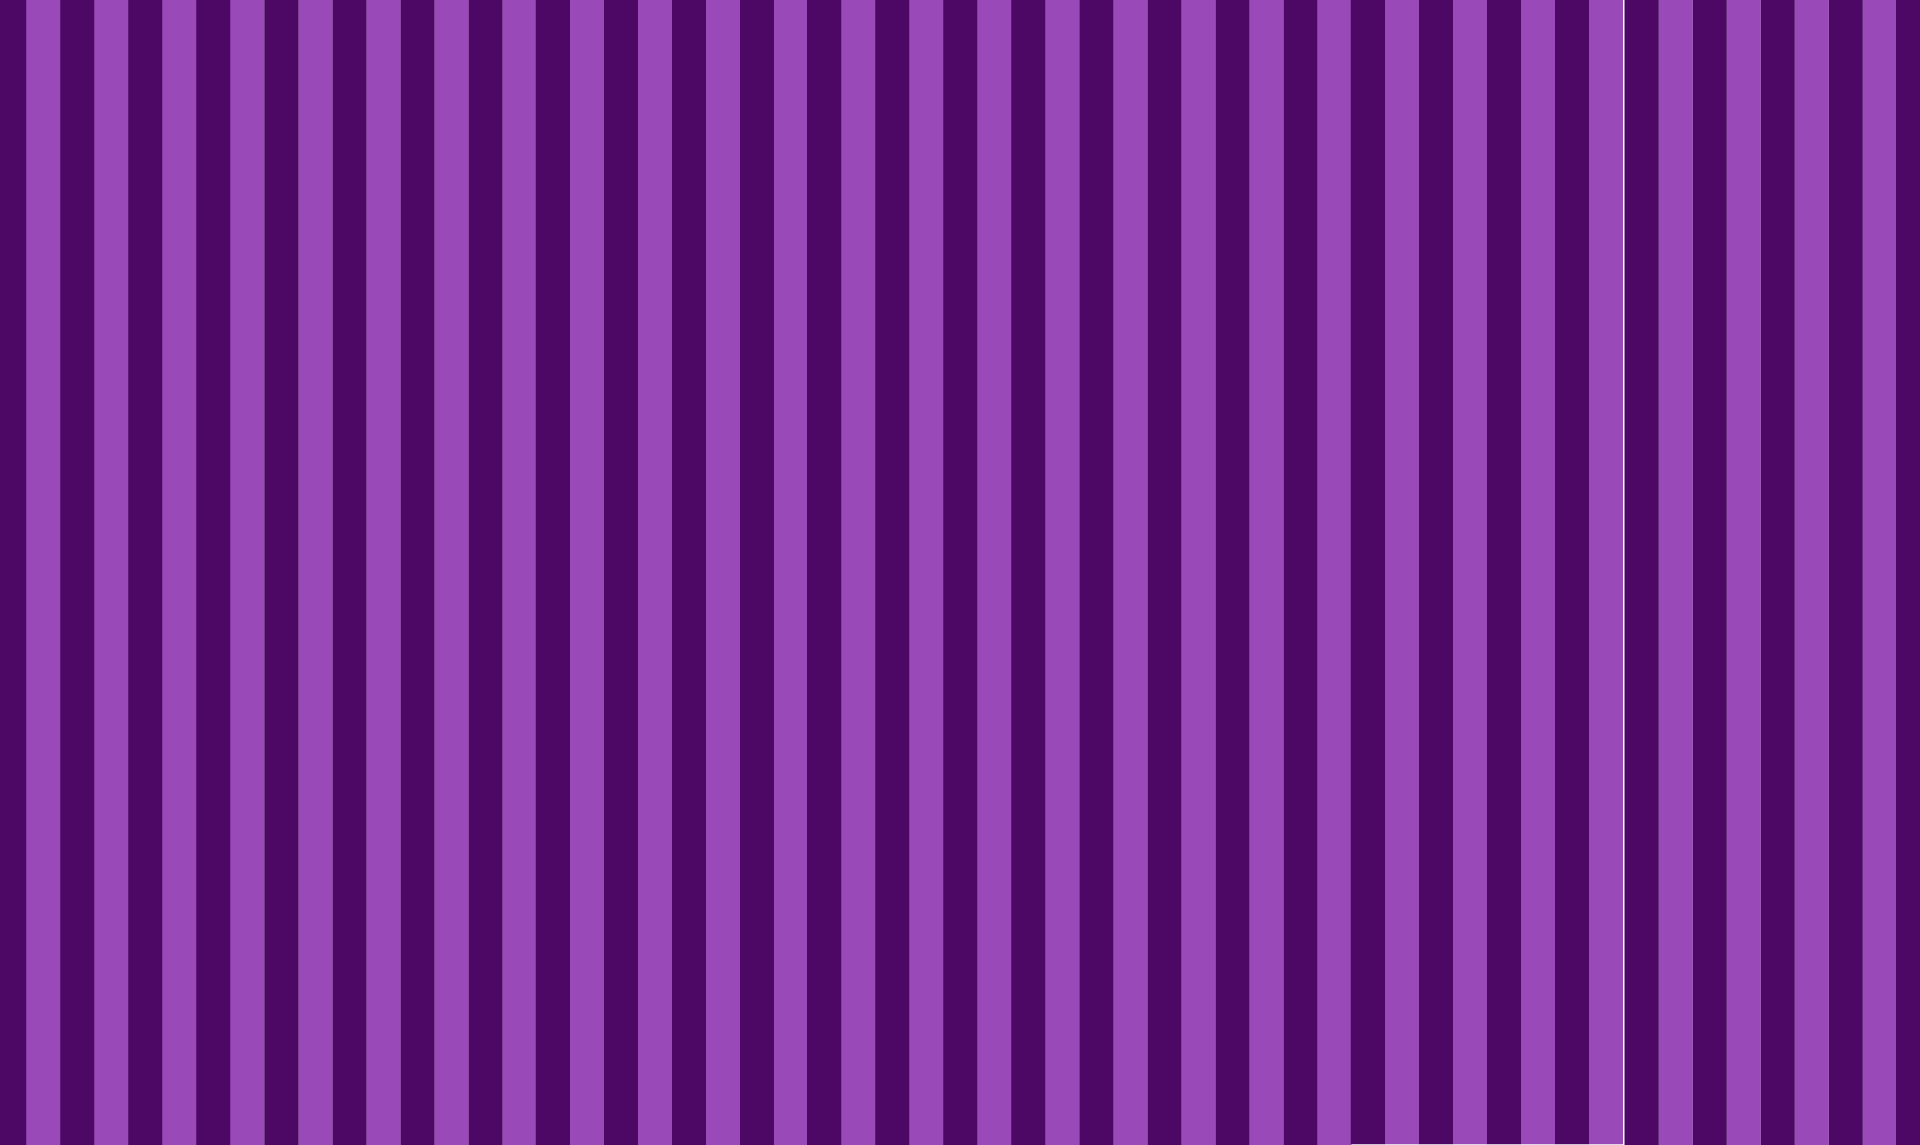
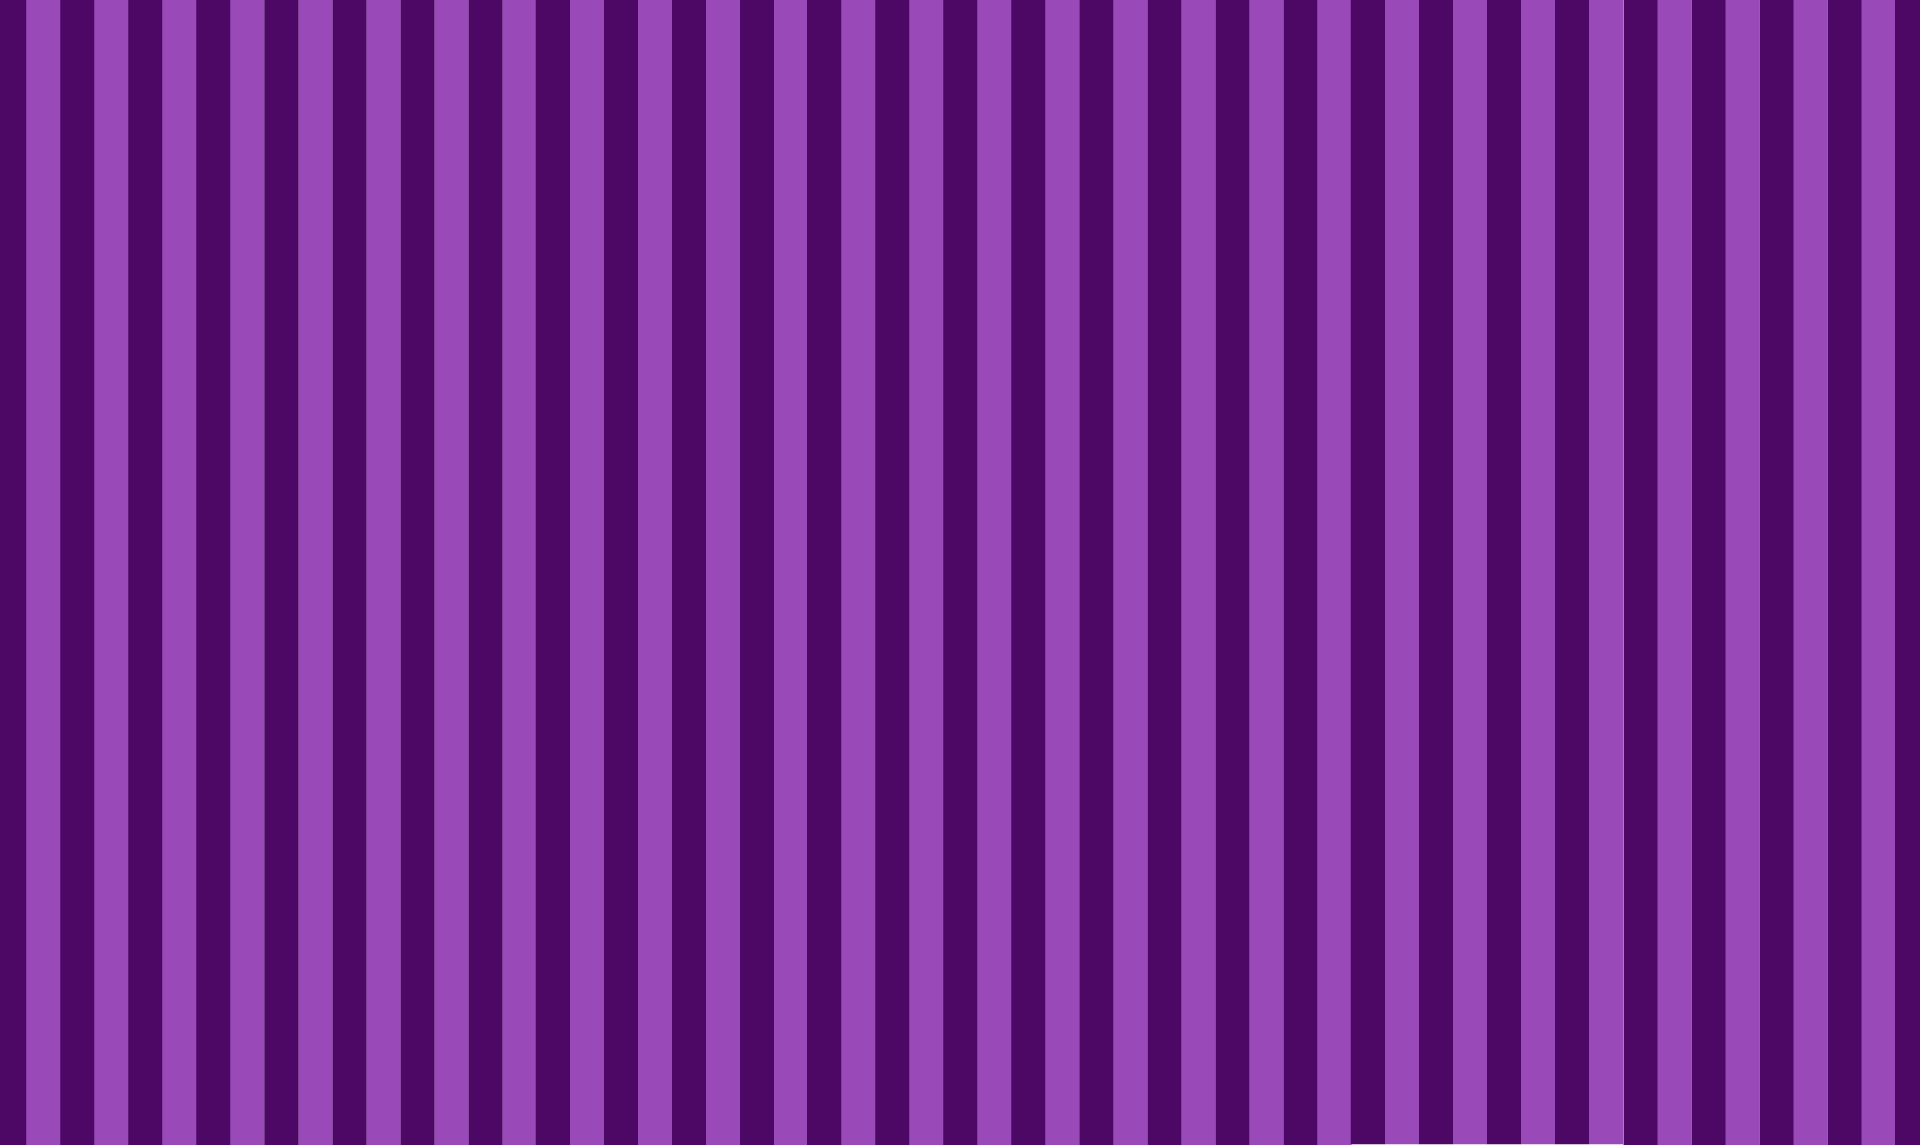
star bursts!

diff --git a/src/App.jsx b/src/App.jsx
@@ -18,6 +18,16 @@ const pageRoutes = {
   'client-work': '/client-work',
 };
 
+const starImages = [
+  '/assets/photos/blackStar.png',
+  '/assets/photos/darkStar.png',
+  '/assets/photos/PastelPurpleStar.png',
+  '/assets/photos/PeachStar.png',
+  '/assets/photos/PinkStar.png',
+  '/assets/photos/PurpleStar.png',
+  '/assets/photos/WhiteStar.png',
+];
+
 function pageFromPath(pathname) {
   const route = Object.entries(pageRoutes).find(([, path]) => path === pathname);
   return route ? route[0] : 'home';
@@ -74,6 +84,75 @@ function NavDropdown({ onSelect, currentPage }) {
             </button>
           ))}
         </div>
+      )}
+    </div>
+  );
+}
+
+function ClickStarBursts() {
+  const [bursts, setBursts] = useState([]);
+  const nextBurstId = useRef(0);
+
+  useEffect(() => {
+    const timers = new Set();
+
+    function handleClick(event) {
+      const id = nextBurstId.current++;
+      const stars = starImages.map((src, index) => {
+        const angle = (index / starImages.length) * Math.PI * 2 + (id % 2) * 0.12;
+        const distance = 78 + ((index + id) % 3) * 16;
+        const size = 30 + ((index + id) % 3) * 6;
+        const duration = 700;
+
+        return {
+          src,
+          x: Math.cos(angle) * distance * 1.25,
+          y: Math.sin(angle) * distance * 0.85,
+          rotation: Math.round((angle * 180) / Math.PI + 260 + ((index + id) % 3) * 100),
+          size,
+          duration,
+          delay: 0,
+        };
+      });
+
+      setBursts((current) => [...current, { id, x: event.clientX, y: event.clientY, stars }]);
+
+      let timerId;
+      timerId = window.setTimeout(() => {
+        setBursts((current) => current.filter((burst) => burst.id !== id));
+        timers.delete(timerId);
+      }, Math.max(...stars.map((star) => star.duration + star.delay)) + 80);
+      timers.add(timerId);
+    }
+
+    document.addEventListener('click', handleClick);
+    return () => {
+      document.removeEventListener('click', handleClick);
+      timers.forEach((timerId) => window.clearTimeout(timerId));
+    };
+  }, []);
+
+  return (
+    <div className="click-star-layer" aria-hidden="true">
+      {bursts.flatMap((burst) =>
+        burst.stars.map((star, index) => (
+          <img
+            key={`${burst.id}-${index}`}
+            className="click-star"
+            src={star.src}
+            alt=""
+            style={{
+              left: `${burst.x}px`,
+              top: `${burst.y}px`,
+              '--burst-x': `${star.x}px`,
+              '--burst-y': `${star.y}px`,
+              '--burst-rotation': `${star.rotation}deg`,
+              '--burst-size': `${star.size}px`,
+              '--burst-duration': `${star.duration}ms`,
+              '--burst-delay': `${star.delay}ms`,
+            }}
+          />
+        )),
       )}
     </div>
   );
@@ -142,6 +221,7 @@ export default function App() {
       ) : (
         <HomePage />
       )}
+      <ClickStarBursts />
     </div>
   );
 }

diff --git a/src/styles.css b/src/styles.css
@@ -38,6 +38,52 @@ button {
   font: inherit;
 }
 
+.click-star-layer {
+  position: fixed;
+  z-index: 1000;
+  inset: 0;
+  overflow: hidden;
+  pointer-events: none;
+}
+
+.click-star {
+  position: absolute;
+  width: var(--burst-size);
+  height: var(--burst-size);
+  max-width: none;
+  object-fit: contain;
+  opacity: 0;
+  animation: click-star-burst var(--burst-duration) ease-out var(--burst-delay) both;
+}
+
+@keyframes click-star-burst {
+  0% {
+    opacity: 0;
+    transform: translate(-50%, -50%) scale(0.15) rotate(0deg);
+  }
+
+  18% {
+    opacity: 1;
+    transform: translate(-50%, -50%) scale(1.15) rotate(20deg);
+  }
+
+  72% {
+    opacity: 1;
+    transform: translate(
+      calc(-50% + var(--burst-x)),
+      calc(-50% + var(--burst-y))
+    ) scale(1) rotate(130deg);
+  }
+
+  100% {
+    opacity: 0;
+    transform: translate(
+      calc(-50% + var(--burst-x)),
+      calc(-50% + var(--burst-y))
+    ) scale(0.8) rotate(var(--burst-rotation));
+  }
+}
+
 .page-shell {
   width: min(1200px, calc(100% - 32px));
   margin: 0 auto;
@@ -523,16 +569,43 @@ button {
 }
 
 .services-grid {
+  position: relative;
+  isolation: isolate;
   display: grid;
-  grid-template-columns: repeat(4, minmax(0, 1fr));
-  gap: 18px;
+  grid-template-columns: repeat(2, minmax(0, 1fr));
+  gap: 0px;
+  padding: 0px;
+}
+
+.services-grid::before {
+  position: absolute;
+  z-index: -1;
+  inset-block: 0;
+  left: 50%;
+  width: 100vw;
+  transform: translateX(-50%);
+  background: url('/assets/photos/darkPurpleStripe.png') center / cover no-repeat;
+  content: '';
 }
 
 .service-card {
-  background: rgba(255, 255, 255, 0.75);
+  grid-column: 1;
+  justify-self: center;
+  align-self: center;
+  width: min(100%, 420px);
+  height: fit-content;
+  background: #ffffff;
   border: 1px solid var(--line);
   border-radius: 22px;
-  padding: 22px 18px;
+  padding: 16px;
+}
+
+.services-photo {
+  width: min(100%, 400px);
+  height: auto;
+  justify-self: center;
+  align-self: center;
+  transform: rotate(10deg);
 }
 
 .icon-circle {
@@ -547,10 +620,30 @@ button {
   margin-bottom: 18px;
 }
 
-.service-card h3 {
-  margin: 0 0 12px;
-  font-size: 1.3rem;
-  letter-spacing: -0.04em;
+.service-list {
+  display: grid;
+  gap: 12px;
+  margin: 0;
+  padding: 0;
+  list-style: none;
+}
+
+.service-list li {
+  display: grid;
+  grid-template-columns: 18px minmax(0, 1fr);
+  align-items: start;
+  gap: 10px;
+  color: var(--text);
+  font-size: 1.02rem;
+  line-height: 1.5;
+}
+
+.service-list li::before {
+  width: 18px;
+  aspect-ratio: 1;
+  margin-top: 2px;
+  background: url('/assets/photos/darkStar.png') center / contain no-repeat;
+  content: '';
 }
 
 .service-card p,
@@ -1963,5 +2056,15 @@ button {
     width: min(100%, 437px);
     height: 437px;
     margin-right: 4px;
+  }
+}
+
+@media (max-width: 640px) {
+  .services-grid {
+    grid-template-columns: 1fr;
+  }
+
+  .services-photo {
+    width: min(78vw, 320px);
   }
 }

diff --git a/src/pages/HomePage.jsx b/src/pages/HomePage.jsx
@@ -1,5 +1,6 @@
 import { useEffect, useRef, useState } from 'react';
-import { highlights, services, stats } from '../data/portfolioData';
+import { highlights, stats } from '../data/portfolioData';
+import polaroidGirl from '/assets/photos/PolaroidPhoneGirl.png';
 
 const portraits = [
   '/assets/photos/fey1.png',
@@ -102,13 +103,22 @@ export default function HomePage() {
           </div>
 
           <div className="services-grid">
-            {services.map((service) => (
-              <article key={service.title} className="service-card">
+              <article className="service-card">
                 <div className="icon-circle">✎</div>
-                <h3>{service.title}</h3>
-                <p>{service.description}</p>
+                <ul className="service-list">
+                  <li>Full-stack website builds</li>
+                  <li>Landing pages &amp; funnels</li>
+                  <li>UI/UX design systems</li>
+                  <li>Website optimization &amp; maintenance</li>
+                </ul>
               </article>
-            ))}
+              <img
+                className="services-photo"
+                src={polaroidGirl}
+                alt="Polaroid of a girl holding a phone"
+                width="400"
+              />
+  
           </div>
         </section>
 

diff --git a/src/data/portfolioData.js b/src/data/portfolioData.js
@@ -1,26 +1,3 @@
-export const services = [
-  {
-    title: 'Full-stack website builds',
-    description:
-      'From concept to launch, I craft custom websites that are visually compelling, technically reliable, and ready to grow with you.',
-  },
-  {
-    title: 'Landing pages & funnels',
-    description:
-      'I design conversion-focused landing pages that guide visitors toward a clear next step, whether that is booking, buying, or contacting you.',
-  },
-  {
-    title: 'UI/UX design systems',
-    description:
-      'I shape intuitive user experiences with clean interfaces, thoughtful flows, and design systems that keep your brand consistent across every screen.',
-  },
-  {
-    title: 'Website optimization & maintenance',
-    description:
-      'I refine existing sites for speed, clarity, and performance, helping your brand stay modern, user-friendly, and easy to manage over time.',
-  },
-];
-
 export const stats = [
   { value: '2+', label: 'Years building digital experiences' },
   { value: '50+', label: 'Projects designed and developed' },
